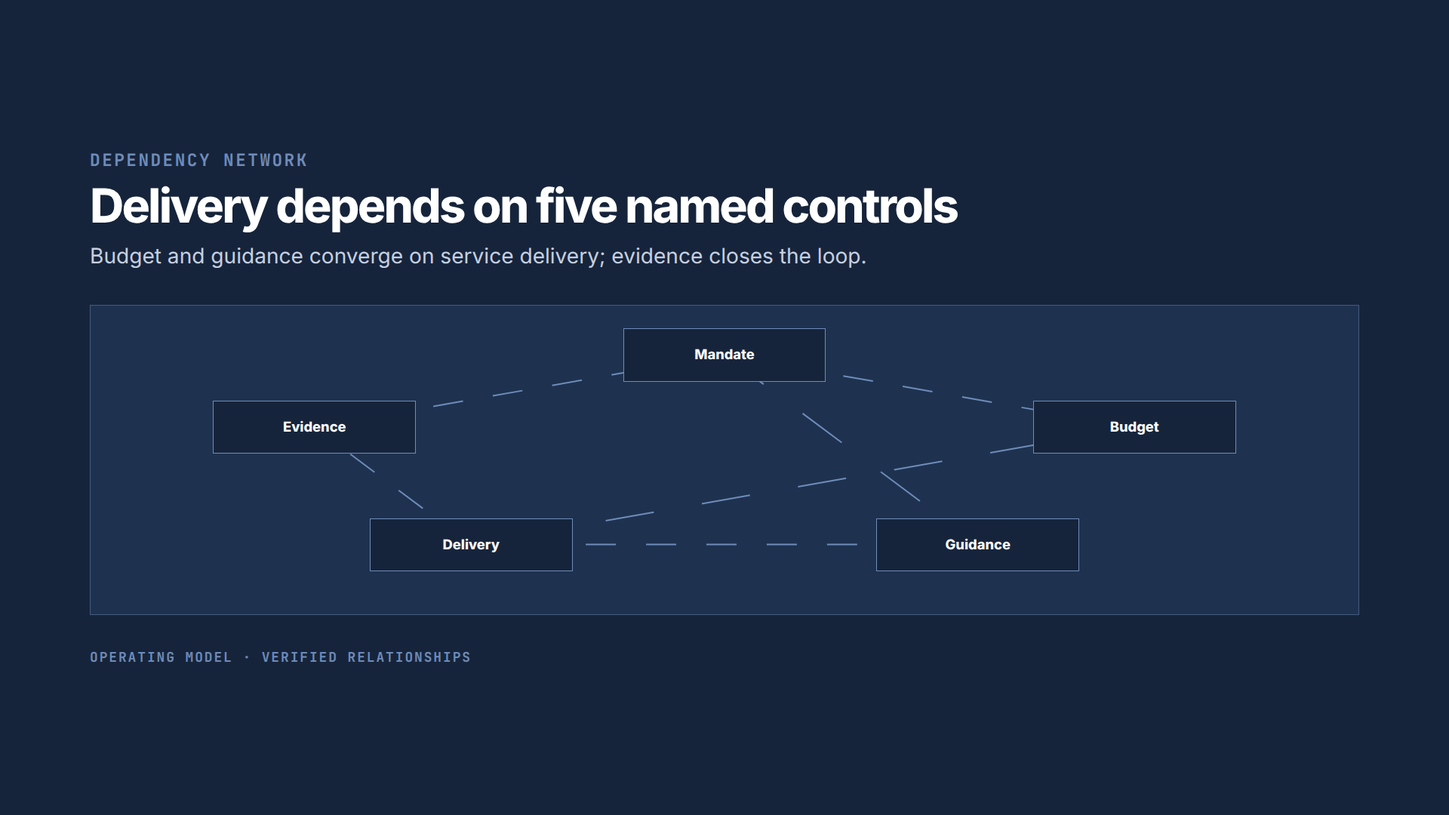
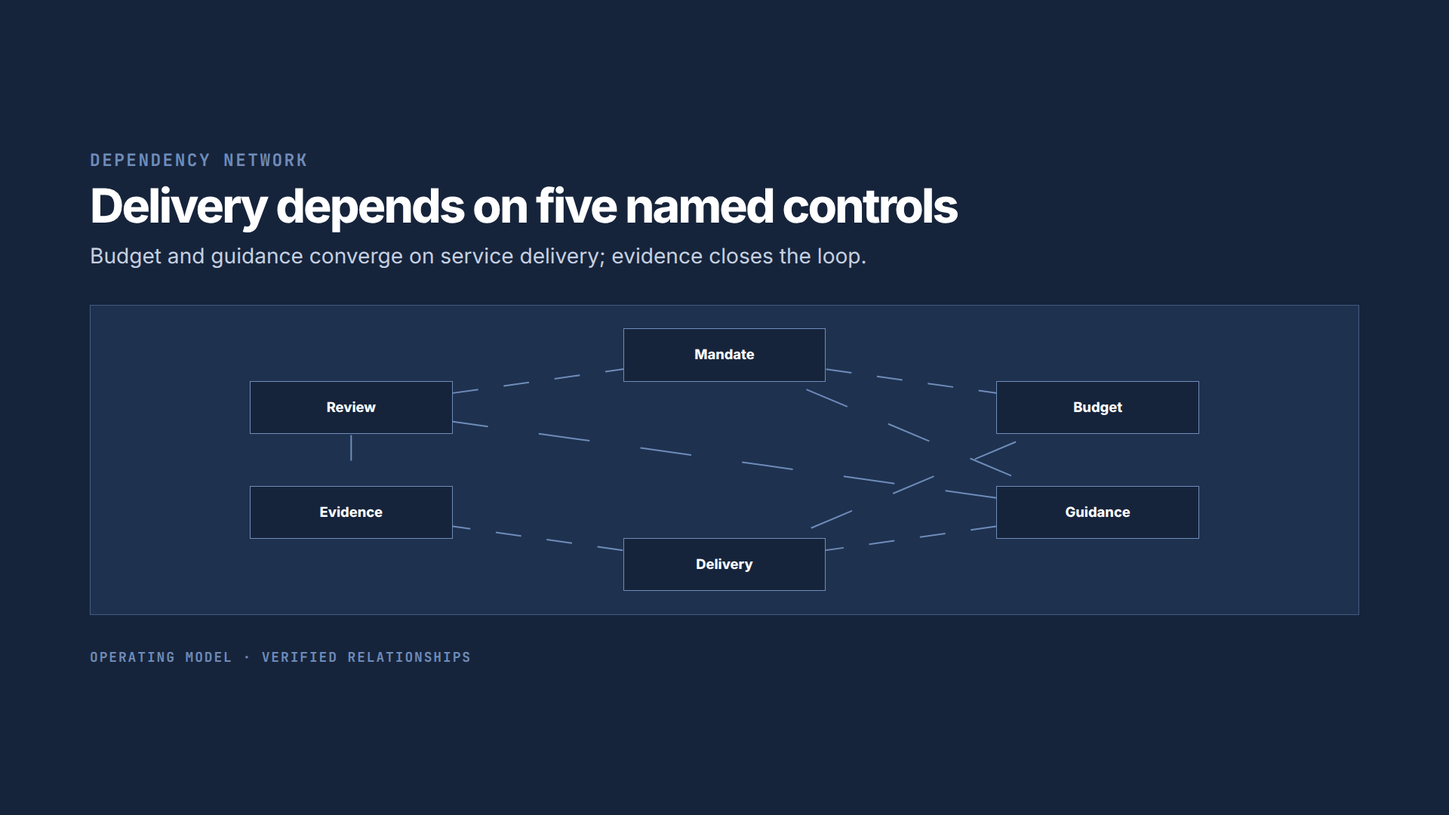
fix(video-composition): fill the sample content to the capacity it claims
The package tells authors that defaults sit at 70-85% capacity, and ROUTER
states a capacity for every layout. Measured against each other, eleven
layouts shipped at the bottom of their own range: ranked-bars carried four
of a possible seven bars, decision-flow four of eight nodes, hub-spoke four
of six spokes, action-checklist and the three ordered-step layouts four of
six, bullet-hierarchy three of five. A proof at the floor of the range
under-demonstrates the layout it exists to demonstrate.

Raised those eleven into the stated band and re-rendered every proof from a
fresh project, then rebuilt the contact sheet. The rewrite that preceded
this one was not the cause: it changed total sample length by -3.1%, with
no layout losing more than twenty characters, because it preserved every
item count.

diff --git a/video-composition/assets/layouts/adapters/system--dependency-network.html b/video-composition/assets/layouts/adapters/system--dependency-network.html
@@ -1,6 +1,6 @@
 <!doctype html>
 <!-- Content-ready content adapter. Official HyperFrames behavior origins: constellation-hub + tracing-beam. -->
-<html lang="en" data-composition-id="vc-adapter-system--dependency-network" data-composition-duration="4" data-vc-content-ready="true" data-registry-origin="constellation-hub + tracing-beam" data-composition-variables='[{"id": "kicker", "type": "string", "role": "content", "label": "Kicker", "description": "", "default": "DEPENDENCY NETWORK"}, {"id": "title", "type": "string", "role": "content", "label": "System statement", "description": "", "default": "Delivery depends on five named controls"}, {"id": "summary", "type": "string", "role": "content", "label": "Interpretation", "description": "", "default": "Budget and guidance converge on service delivery; evidence closes the loop."}, {"id": "nodes", "type": "string", "role": "content", "label": "Nodes", "description": "", "default": "Mandate|Budget|Guidance|Delivery|Evidence"}, {"id": "edges", "type": "string", "role": "content", "label": "Directed edges", "description": "", "default": "Mandate>Budget;Mandate>Guidance;Budget>Delivery;Guidance>Delivery;Delivery>Evidence;Evidence>Mandate"}, {"id": "source", "type": "string", "role": "content", "label": "Source", "description": "", "default": "OPERATING MODEL · VERIFIED RELATIONSHIPS"}]'>
+<html lang="en" data-composition-id="vc-adapter-system--dependency-network" data-composition-duration="4" data-vc-content-ready="true" data-registry-origin="constellation-hub + tracing-beam" data-composition-variables='[{"id": "kicker", "type": "string", "role": "content", "label": "Kicker", "description": "", "default": "DEPENDENCY NETWORK"}, {"id": "title", "type": "string", "role": "content", "label": "System statement", "description": "", "default": "Delivery depends on five named controls"}, {"id": "summary", "type": "string", "role": "content", "label": "Interpretation", "description": "", "default": "Budget and guidance converge on service delivery; evidence closes the loop."}, {"id": "nodes", "type": "string", "role": "content", "label": "Nodes", "description": "", "default": "Mandate|Budget|Guidance|Delivery|Evidence|Review"}, {"id": "edges", "type": "string", "role": "content", "label": "Directed edges", "description": "", "default": "Mandate>Budget;Mandate>Guidance;Budget>Delivery;Guidance>Delivery;Delivery>Evidence;Evidence>Review;Review>Mandate;Guidance>Review"}, {"id": "source", "type": "string", "role": "content", "label": "Source", "description": "", "default": "OPERATING MODEL · VERIFIED RELATIONSHIPS"}]'>
   <head><meta charset="UTF-8" /></head>
   <body>
     <template>

diff --git a/video-composition/assets/layouts/adapters/time--rollout-lanes.html b/video-composition/assets/layouts/adapters/time--rollout-lanes.html
@@ -1,6 +1,6 @@
 <!doctype html>
 <!-- Content-ready content adapter. Official HyperFrames behavior origins: beat-timeline + grid-card-assemble. -->
-<html lang="en" data-composition-id="vc-adapter-time--rollout-lanes" data-composition-duration="4.5" data-vc-content-ready="true" data-registry-origin="beat-timeline + grid-card-assemble" data-composition-variables='[{"id": "kicker", "type": "string", "role": "content", "label": "Kicker", "description": "", "default": "PARALLEL WORKSTREAMS"}, {"id": "title", "type": "string", "role": "content", "label": "Roadmap title", "description": "", "default": "Three delivery lanes converge on launch"}, {"id": "summary", "type": "string", "role": "content", "label": "Critical dependency", "description": "", "default": "Team training cannot close before the shared guide is published."}, {"id": "periods", "type": "string", "role": "content", "label": "Periods", "description": "", "default": "DECISION|PREPARE|LAUNCH"}, {"id": "lanes", "type": "string", "role": "content", "label": "Lanes", "description": "", "default": "Shared|Approve policy|Publish guide|Monitor;Group|Assess capacity|Close gaps|Report;Team|Name owners|Train people|Open service"}, {"id": "source", "type": "string", "role": "content", "label": "Source", "description": "", "default": "DELIVERY PLAN · CRITICAL DATES ONLY"}]'>
+<html lang="en" data-composition-id="vc-adapter-time--rollout-lanes" data-composition-duration="4.5" data-vc-content-ready="true" data-registry-origin="beat-timeline + grid-card-assemble" data-composition-variables='[{"id": "kicker", "type": "string", "role": "content", "label": "Kicker", "description": "", "default": "PARALLEL WORKSTREAMS"}, {"id": "title", "type": "string", "role": "content", "label": "Roadmap title", "description": "", "default": "Three delivery lanes converge on launch"}, {"id": "summary", "type": "string", "role": "content", "label": "Critical dependency", "description": "", "default": "Team training cannot close before the shared guide is published."}, {"id": "periods", "type": "string", "role": "content", "label": "Periods", "description": "", "default": "DECISION|PREPARE|LAUNCH|REVIEW"}, {"id": "lanes", "type": "string", "role": "content", "label": "Lanes", "description": "", "default": "Shared|Approve policy|Publish guide|Monitor|Report;Group|Assess capacity|Close gaps|Confirm owners|Review;Team|Name owners|Train people|Open service|Feed back"}, {"id": "source", "type": "string", "role": "content", "label": "Source", "description": "", "default": "DELIVERY PLAN · CRITICAL DATES ONLY"}]'>
   <head><meta charset="UTF-8" /></head>
   <body>
     <template>

diff --git a/video-composition/assets/layouts/adapters/text--action-checklist.html b/video-composition/assets/layouts/adapters/text--action-checklist.html
@@ -1,6 +1,6 @@
 <!doctype html>
 <!-- Content-ready content adapter. Official HyperFrames behavior origins: grid-card-assemble. -->
-<html lang="en" data-composition-id="vc-adapter-text--action-checklist" data-composition-duration="8" data-vc-content-ready="true" data-registry-origin="grid-card-assemble" data-composition-variables='[{"id": "kicker", "type": "string", "role": "content", "label": "Kicker", "description": "", "default": "ACTION CHECKLIST"}, {"id": "title", "type": "string", "role": "content", "label": "Instruction", "description": "", "default": "Complete these steps before the deadline"}, {"id": "summary", "type": "string", "role": "content", "label": "Context", "description": "", "default": "Each item is a concrete action with an observable completion state."}, {"id": "items", "type": "string", "role": "content", "label": "Actions", "description": "", "default": "Confirm eligibility|Check the published criteria;Prepare records|Gather the required documents;Submit through the official channel|Keep the confirmation receipt;Review the outcome|Escalate only through the stated route"}, {"id": "source", "type": "string", "role": "content", "label": "Source", "description": "", "default": "ROLLOUT GUIDE · VERIFIED"}]'>
+<html lang="en" data-composition-id="vc-adapter-text--action-checklist" data-composition-duration="8" data-vc-content-ready="true" data-registry-origin="grid-card-assemble" data-composition-variables='[{"id": "kicker", "type": "string", "role": "content", "label": "Kicker", "description": "", "default": "ACTION CHECKLIST"}, {"id": "title", "type": "string", "role": "content", "label": "Instruction", "description": "", "default": "Complete these steps before the deadline"}, {"id": "summary", "type": "string", "role": "content", "label": "Context", "description": "", "default": "Each item is a concrete action with an observable completion state."}, {"id": "items", "type": "string", "role": "content", "label": "Actions", "description": "", "default": "Confirm eligibility|Check the published criteria;Prepare records|Gather the required documents;Submit through the official channel|Keep the confirmation receipt;Name a local owner|Record who answers questions;Review the outcome|Escalate only through the stated route"}, {"id": "source", "type": "string", "role": "content", "label": "Source", "description": "", "default": "ROLLOUT GUIDE · VERIFIED"}]'>
   <head><meta charset="UTF-8" /></head>
   <body>
     <template>

diff --git a/video-composition/assets/layouts/adapters/system--decision-flow.html b/video-composition/assets/layouts/adapters/system--decision-flow.html
@@ -1,6 +1,6 @@
 <!doctype html>
 <!-- Content-ready content adapter. Official HyperFrames behavior origins: tracing-beam + state-chip-rail. -->
-<html lang="en" data-composition-id="vc-adapter-system--decision-flow" data-composition-duration="4" data-vc-content-ready="true" data-registry-origin="tracing-beam + state-chip-rail" data-composition-variables='[{"id": "kicker", "type": "string", "role": "content", "label": "Kicker", "description": "", "default": "ORDER AND OWNERSHIP"}, {"id": "title", "type": "string", "role": "content", "label": "Process title", "description": "", "default": "The decision path includes a real exception"}, {"id": "summary", "type": "string", "role": "content", "label": "Start, current marker, or rule", "description": "", "default": "DECISION CONTROL"}, {"id": "steps", "type": "string", "role": "content", "label": "Ordered content", "description": "", "default": "01|Assess evidence|Is the record complete?;YES|Approve|Confirm scope and threshold;NO|Return|Name the missing evidence;FINAL|Ship|Record decision and route"}, {"id": "source", "type": "string", "role": "content", "label": "Result or source", "description": "", "default": "OUTCOME · EVERY BRANCH HAS AN OWNER"}]'>
+<html lang="en" data-composition-id="vc-adapter-system--decision-flow" data-composition-duration="4" data-vc-content-ready="true" data-registry-origin="tracing-beam + state-chip-rail" data-composition-variables='[{"id": "kicker", "type": "string", "role": "content", "label": "Kicker", "description": "", "default": "ORDER AND OWNERSHIP"}, {"id": "title", "type": "string", "role": "content", "label": "Process title", "description": "", "default": "The decision path includes a real exception"}, {"id": "summary", "type": "string", "role": "content", "label": "Start, current marker, or rule", "description": "", "default": "DECISION CONTROL"}, {"id": "steps", "type": "string", "role": "content", "label": "Ordered content", "description": "", "default": "01|Assess evidence|Is the record complete?;YES|Approve|Confirm scope and threshold;NO|Return|Name the missing evidence;02|Re-check|Owner resubmits within five days;03|Sign off|Group lead records the decision;FINAL|Ship|Record decision and route"}, {"id": "source", "type": "string", "role": "content", "label": "Result or source", "description": "", "default": "OUTCOME · EVERY BRANCH HAS AN OWNER"}]'>
   <head><meta charset="UTF-8" /></head>
   <body>
     <template>

diff --git a/video-composition/assets/layouts/adapters/time--ordered-steps.html b/video-composition/assets/layouts/adapters/time--ordered-steps.html
@@ -1,6 +1,6 @@
 <!doctype html>
 <!-- Content-ready content adapter. Official HyperFrames behavior origins: tracing-beam + grid-card-assemble. -->
-<html lang="en" data-composition-id="vc-adapter-time--ordered-steps" data-composition-duration="4" data-vc-content-ready="true" data-registry-origin="tracing-beam + grid-card-assemble" data-composition-variables='[{"id": "kicker", "type": "string", "role": "content", "label": "Kicker", "description": "", "default": "ORDER AND OWNERSHIP"}, {"id": "title", "type": "string", "role": "content", "label": "Process title", "description": "", "default": "Complete the procedure in this order"}, {"id": "summary", "type": "string", "role": "content", "label": "Start, current marker, or rule", "description": "", "default": "START · VERIFIED REQUEST"}, {"id": "steps", "type": "string", "role": "content", "label": "Ordered content", "description": "", "default": "01|Confirm|Check eligibility and scope;02|Prepare|Gather required records;03|Submit|Use the official channel;04|Retain|Keep confirmation for review"}, {"id": "source", "type": "string", "role": "content", "label": "Result or source", "description": "", "default": "RESULT · AUDITABLE SUBMISSION"}]'>
+<html lang="en" data-composition-id="vc-adapter-time--ordered-steps" data-composition-duration="4" data-vc-content-ready="true" data-registry-origin="tracing-beam + grid-card-assemble" data-composition-variables='[{"id": "kicker", "type": "string", "role": "content", "label": "Kicker", "description": "", "default": "ORDER AND OWNERSHIP"}, {"id": "title", "type": "string", "role": "content", "label": "Process title", "description": "", "default": "Complete the procedure in this order"}, {"id": "summary", "type": "string", "role": "content", "label": "Start, current marker, or rule", "description": "", "default": "START · VERIFIED REQUEST"}, {"id": "steps", "type": "string", "role": "content", "label": "Ordered content", "description": "", "default": "01|Confirm|Check eligibility and scope;02|Prepare|Gather required records;03|Submit|Use the official channel;04|Verify|Confirm the record is complete;05|Retain|Keep confirmation for review"}, {"id": "source", "type": "string", "role": "content", "label": "Result or source", "description": "", "default": "RESULT · AUDITABLE SUBMISSION"}]'>
   <head><meta charset="UTF-8" /></head>
   <body>
     <template>

diff --git a/video-composition/assets/layouts/adapters/time--handoff-flow.html b/video-composition/assets/layouts/adapters/time--handoff-flow.html
@@ -1,6 +1,6 @@
 <!doctype html>
 <!-- Content-ready content adapter. Official HyperFrames behavior origins: tracing-beam. -->
-<html lang="en" data-composition-id="vc-adapter-time--handoff-flow" data-composition-duration="4" data-vc-content-ready="true" data-registry-origin="tracing-beam" data-composition-variables='[{"id": "kicker", "type": "string", "role": "content", "label": "Kicker", "description": "", "default": "ORDER AND OWNERSHIP"}, {"id": "title", "type": "string", "role": "content", "label": "Process title", "description": "", "default": "Responsibility moves with a named artifact"}, {"id": "summary", "type": "string", "role": "content", "label": "Start, current marker, or rule", "description": "", "default": "HANDOFF CONTROL"}, {"id": "steps", "type": "string", "role": "content", "label": "Ordered content", "description": "", "default": "01|Policy team|Signed decision → group;02|Group lead|Readiness report → service;03|Service owner|Published guide → teams;04|Review team|Outcome record → strategy"}, {"id": "source", "type": "string", "role": "content", "label": "Result or source", "description": "", "default": "FINAL STATE · ACCOUNTABLE DELIVERY"}]'>
+<html lang="en" data-composition-id="vc-adapter-time--handoff-flow" data-composition-duration="4" data-vc-content-ready="true" data-registry-origin="tracing-beam" data-composition-variables='[{"id": "kicker", "type": "string", "role": "content", "label": "Kicker", "description": "", "default": "ORDER AND OWNERSHIP"}, {"id": "title", "type": "string", "role": "content", "label": "Process title", "description": "", "default": "Responsibility moves with a named artifact"}, {"id": "summary", "type": "string", "role": "content", "label": "Start, current marker, or rule", "description": "", "default": "HANDOFF CONTROL"}, {"id": "steps", "type": "string", "role": "content", "label": "Ordered content", "description": "", "default": "01|Policy team|Signed decision → group;02|Group lead|Readiness report → service;03|Service owner|Published guide → teams;04|Support desk|Request route → owners;05|Review team|Outcome record → strategy"}, {"id": "source", "type": "string", "role": "content", "label": "Result or source", "description": "", "default": "FINAL STATE · ACCOUNTABLE DELIVERY"}]'>
   <head><meta charset="UTF-8" /></head>
   <body>
     <template>

diff --git a/video-composition/assets/layouts/adapters/time--milestone-timeline.html b/video-composition/assets/layouts/adapters/time--milestone-timeline.html
@@ -1,6 +1,6 @@
 <!doctype html>
 <!-- Content-ready content adapter. Official HyperFrames behavior origins: beat-timeline. -->
-<html lang="en" data-composition-id="vc-adapter-time--milestone-timeline" data-composition-duration="4" data-vc-content-ready="true" data-registry-origin="beat-timeline" data-composition-variables='[{"id": "kicker", "type": "string", "role": "content", "label": "Kicker", "description": "", "default": "ORDER AND OWNERSHIP"}, {"id": "title", "type": "string", "role": "content", "label": "Process title", "description": "", "default": "Four dated milestones govern the rollout"}, {"id": "summary", "type": "string", "role": "content", "label": "Start, current marker, or rule", "description": "", "default": "CURRENT MARKER · GUIDANCE"}, {"id": "steps", "type": "string", "role": "content", "label": "Ordered content", "description": "", "default": "12 SEP|Decision|Scope confirmed;20 SEP|Guidance|Rollout guide published;01 OCT|Launch|New route opens;15 NOV|Review|First evidence checkpoint"}, {"id": "source", "type": "string", "role": "content", "label": "Result or source", "description": "", "default": "SOURCE · ROLLOUT SCHEDULE"}]'>
+<html lang="en" data-composition-id="vc-adapter-time--milestone-timeline" data-composition-duration="4" data-vc-content-ready="true" data-registry-origin="beat-timeline" data-composition-variables='[{"id": "kicker", "type": "string", "role": "content", "label": "Kicker", "description": "", "default": "ORDER AND OWNERSHIP"}, {"id": "title", "type": "string", "role": "content", "label": "Process title", "description": "", "default": "Four dated milestones govern the rollout"}, {"id": "summary", "type": "string", "role": "content", "label": "Start, current marker, or rule", "description": "", "default": "CURRENT MARKER · GUIDANCE"}, {"id": "steps", "type": "string", "role": "content", "label": "Ordered content", "description": "", "default": "12 SEP|Decision|Scope confirmed;20 SEP|Guidance|Rollout guide published;28 SEP|Briefing|Group leads confirmed;01 OCT|Launch|New route opens;15 NOV|Review|First evidence checkpoint"}, {"id": "source", "type": "string", "role": "content", "label": "Result or source", "description": "", "default": "SOURCE · ROLLOUT SCHEDULE"}]'>
   <head><meta charset="UTF-8" /></head>
   <body>
     <template>

diff --git a/video-composition/assets/layouts/adapters/data--ranked-bars.html b/video-composition/assets/layouts/adapters/data--ranked-bars.html
@@ -1,6 +1,6 @@
 <!doctype html>
 <!-- Content-ready content adapter. Official HyperFrames behavior origins: chart-story. -->
-<html lang="en" data-composition-id="vc-adapter-data--ranked-bars" data-composition-duration="15" data-vc-content-ready="true" data-registry-origin="chart-story" data-composition-variables='[{"id": "kicker", "type": "string", "role": "content", "label": "Kicker", "description": "", "default": "COMMON BASIS"}, {"id": "title", "type": "string", "role": "content", "label": "Chart title", "description": "", "default": "Readiness ranks differ by group"}, {"id": "summary", "type": "string", "role": "content", "label": "Measure", "description": "", "default": "Share of required checks completed"}, {"id": "items", "type": "string", "role": "content", "label": "Bars", "description": "", "default": "North|82|82%;Central|68|68%;South|54|54%;West|41|41%"}, {"id": "takeaway", "type": "string", "role": "content", "label": "Takeaway", "description": "", "default": "North leads West by 41 percentage points."}, {"id": "source", "type": "string", "role": "content", "label": "Source", "description": "", "default": "ROLLOUT DASHBOARD · 2026"}]'>
+<html lang="en" data-composition-id="vc-adapter-data--ranked-bars" data-composition-duration="15" data-vc-content-ready="true" data-registry-origin="chart-story" data-composition-variables='[{"id": "kicker", "type": "string", "role": "content", "label": "Kicker", "description": "", "default": "COMMON BASIS"}, {"id": "title", "type": "string", "role": "content", "label": "Chart title", "description": "", "default": "Readiness ranks differ by group"}, {"id": "summary", "type": "string", "role": "content", "label": "Measure", "description": "", "default": "Share of required checks completed"}, {"id": "items", "type": "string", "role": "content", "label": "Bars", "description": "", "default": "North|82|82%;Central|68|68%;South|54|54%;West|41|41%;East|33|33%;Remote|27|27%"}, {"id": "takeaway", "type": "string", "role": "content", "label": "Takeaway", "description": "", "default": "North leads Remote by 55 percentage points."}, {"id": "source", "type": "string", "role": "content", "label": "Source", "description": "", "default": "ROLLOUT DASHBOARD · 2026"}]'>
   <head><meta charset="UTF-8" /></head>
   <body>
     <template>

diff --git a/video-composition/assets/layouts/source/text--action-checklist.html b/video-composition/assets/layouts/source/text--action-checklist.html
@@ -28,7 +28,7 @@
               data-registry-item="grid-card-assemble"
               data-composition-id="vc-adapter-text--action-checklist"
               data-composition-src="compositions/vc-adapters/text--action-checklist.html"
-              data-variable-values='{"kicker": "ACTION CHECKLIST", "title": "Complete these steps before the deadline", "summary": "Each item is a concrete action with an observable completion state.", "items": "Confirm eligibility|Check the published criteria;Prepare records|Gather the required documents;Submit through the official channel|Keep the confirmation receipt;Review the outcome|Escalate only through the stated route", "source": "ROLLOUT GUIDE · VERIFIED"}'
+              data-variable-values='{"kicker": "ACTION CHECKLIST", "title": "Complete these steps before the deadline", "summary": "Each item is a concrete action with an observable completion state.", "items": "Confirm eligibility|Check the published criteria;Prepare records|Gather the required documents;Submit through the official channel|Keep the confirmation receipt;Name a local owner|Record who answers questions;Review the outcome|Escalate only through the stated route", "source": "ROLLOUT GUIDE · VERIFIED"}'
               data-start="0"
               data-duration="8"
               data-track-index="1"

diff --git a/video-composition/assets/layouts/source/system--dependency-network.html b/video-composition/assets/layouts/source/system--dependency-network.html
@@ -28,7 +28,7 @@
               data-registry-item="constellation-hub + tracing-beam"
               data-composition-id="vc-adapter-system--dependency-network"
               data-composition-src="compositions/vc-adapters/system--dependency-network.html"
-              data-variable-values='{"kicker": "DEPENDENCY NETWORK", "title": "Delivery depends on five named controls", "summary": "Budget and guidance converge on service delivery; evidence closes the loop.", "nodes": "Mandate|Budget|Guidance|Delivery|Evidence", "edges": "Mandate>Budget;Mandate>Guidance;Budget>Delivery;Guidance>Delivery;Delivery>Evidence;Evidence>Mandate", "source": "OPERATING MODEL · VERIFIED RELATIONSHIPS"}'
+              data-variable-values='{"kicker": "DEPENDENCY NETWORK", "title": "Delivery depends on five named controls", "summary": "Budget and guidance converge on service delivery; evidence closes the loop.", "nodes": "Mandate|Budget|Guidance|Delivery|Evidence|Review", "edges": "Mandate>Budget;Mandate>Guidance;Budget>Delivery;Guidance>Delivery;Delivery>Evidence;Evidence>Review;Review>Mandate;Guidance>Review", "source": "OPERATING MODEL · VERIFIED RELATIONSHIPS"}'
               data-start="0"
               data-duration="4"
               data-track-index="1"

diff --git a/video-composition/assets/layouts/source/time--rollout-lanes.html b/video-composition/assets/layouts/source/time--rollout-lanes.html
@@ -28,7 +28,7 @@
               data-registry-item="beat-timeline + grid-card-assemble"
               data-composition-id="vc-adapter-time--rollout-lanes"
               data-composition-src="compositions/vc-adapters/time--rollout-lanes.html"
-              data-variable-values='{"kicker": "PARALLEL WORKSTREAMS", "title": "Three delivery lanes converge on launch", "summary": "Team training cannot close before the shared guide is published.", "periods": "DECISION|PREPARE|LAUNCH", "lanes": "Shared|Approve policy|Publish guide|Monitor;Group|Assess capacity|Close gaps|Report;Team|Name owners|Train people|Open service", "source": "DELIVERY PLAN · CRITICAL DATES ONLY"}'
+              data-variable-values='{"kicker": "PARALLEL WORKSTREAMS", "title": "Three delivery lanes converge on launch", "summary": "Team training cannot close before the shared guide is published.", "periods": "DECISION|PREPARE|LAUNCH|REVIEW", "lanes": "Shared|Approve policy|Publish guide|Monitor|Report;Group|Assess capacity|Close gaps|Confirm owners|Review;Team|Name owners|Train people|Open service|Feed back", "source": "DELIVERY PLAN · CRITICAL DATES ONLY"}'
               data-start="0"
               data-duration="4.5"
               data-track-index="1"

diff --git a/video-composition/assets/layouts/source/system--decision-flow.html b/video-composition/assets/layouts/source/system--decision-flow.html
@@ -28,7 +28,7 @@
               data-registry-item="tracing-beam + state-chip-rail"
               data-composition-id="vc-adapter-system--decision-flow"
               data-composition-src="compositions/vc-adapters/system--decision-flow.html"
-              data-variable-values='{"kicker": "ORDER AND OWNERSHIP", "title": "The decision path includes a real exception", "summary": "DECISION CONTROL", "steps": "01|Assess evidence|Is the record complete?;YES|Approve|Confirm scope and threshold;NO|Return|Name the missing evidence;FINAL|Ship|Record decision and route", "source": "OUTCOME · EVERY BRANCH HAS AN OWNER"}'
+              data-variable-values='{"kicker": "ORDER AND OWNERSHIP", "title": "The decision path includes a real exception", "summary": "DECISION CONTROL", "steps": "01|Assess evidence|Is the record complete?;YES|Approve|Confirm scope and threshold;NO|Return|Name the missing evidence;02|Re-check|Owner resubmits within five days;03|Sign off|Group lead records the decision;FINAL|Ship|Record decision and route", "source": "OUTCOME · EVERY BRANCH HAS AN OWNER"}'
               data-start="0"
               data-duration="4"
               data-track-index="1"
